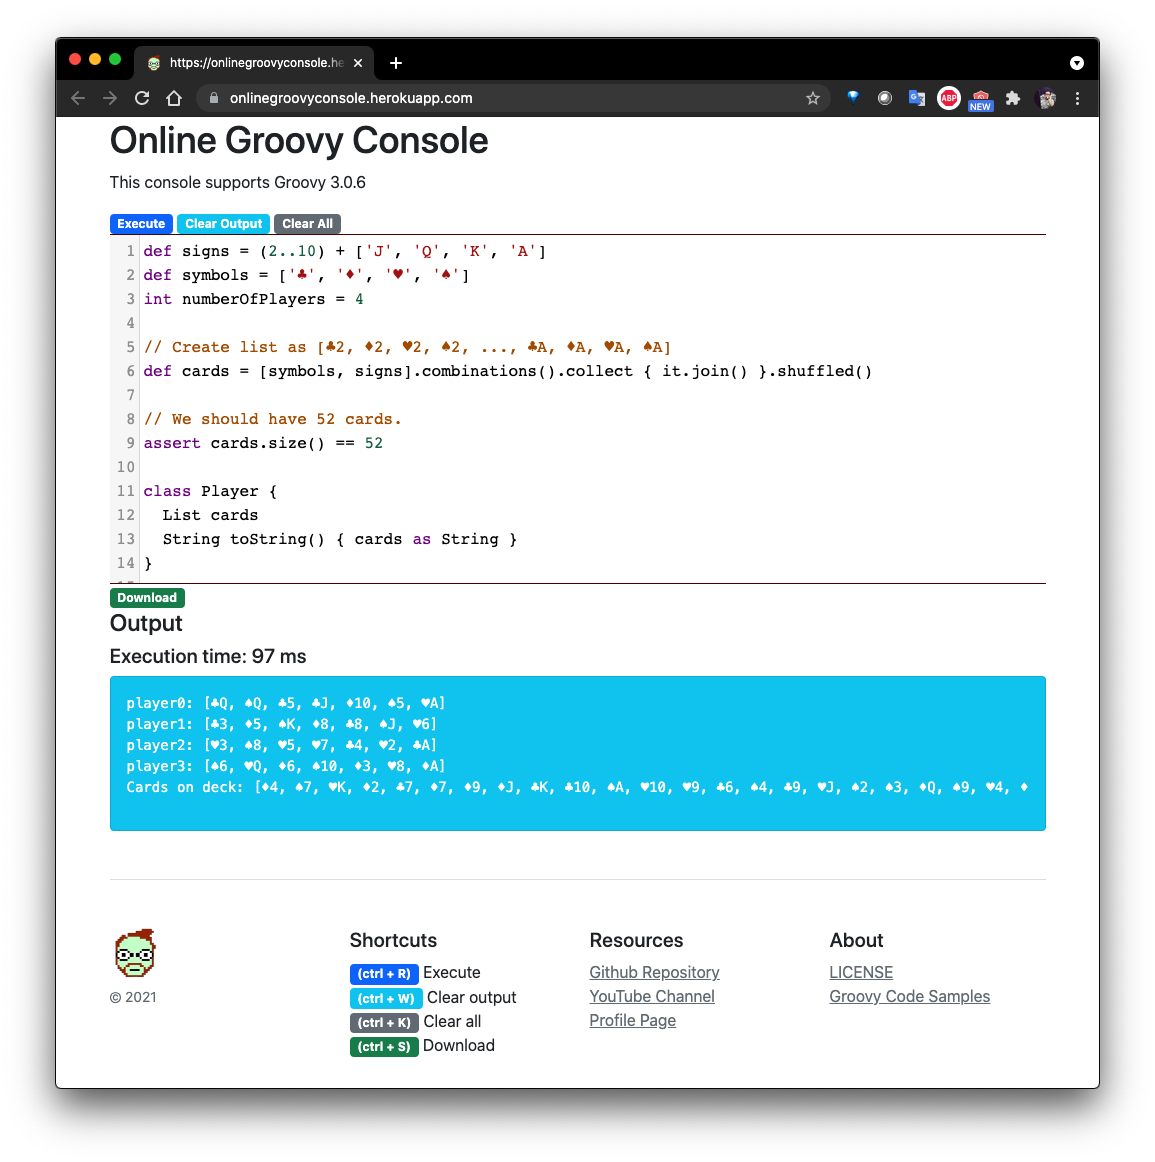
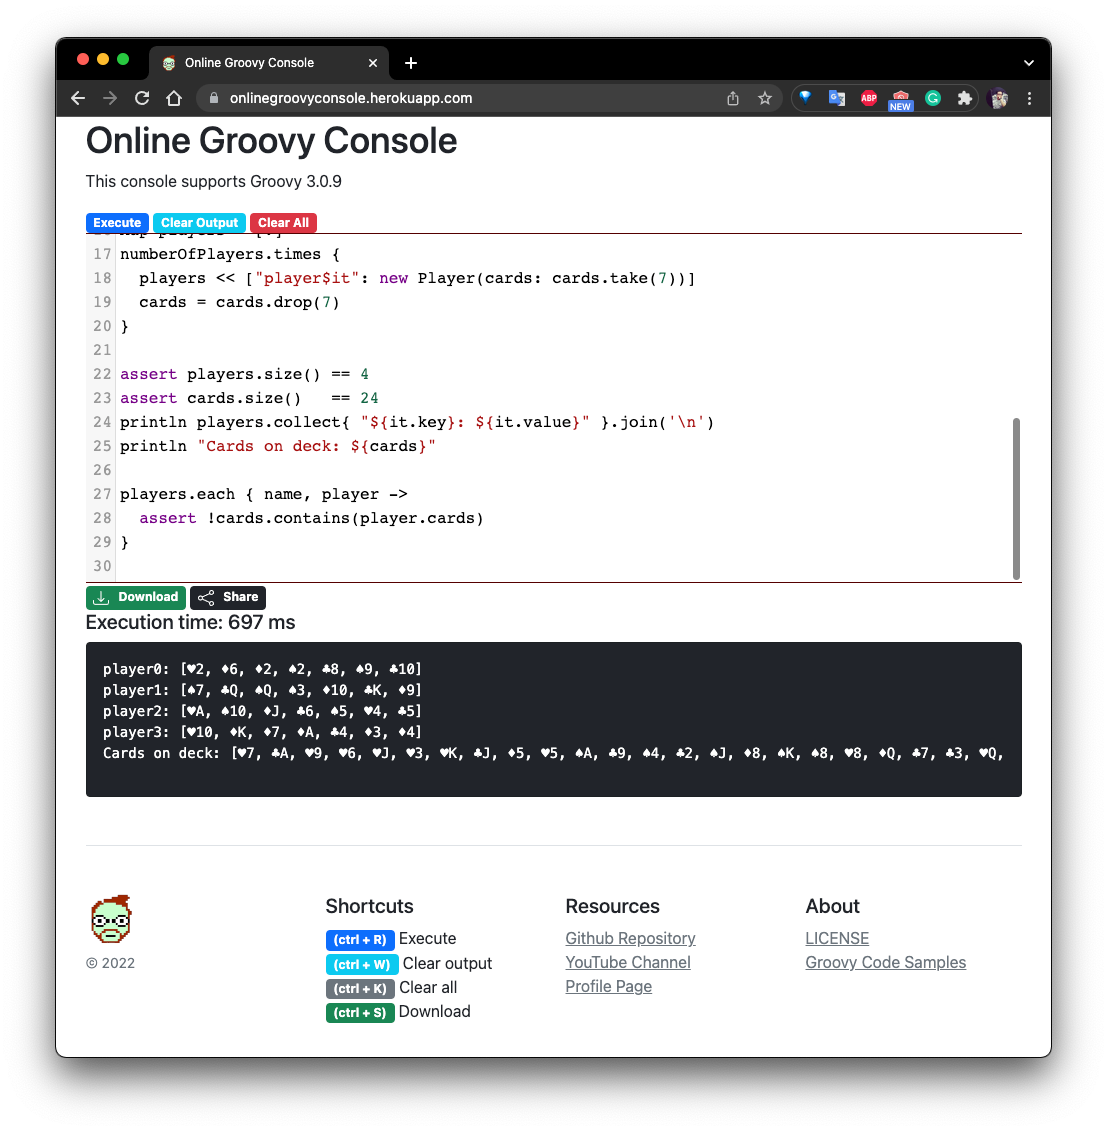
Update README with latest changes

diff --git a/README.md b/README.md
@@ -5,9 +5,9 @@ compatible with Groovy 3.0.6, this project is builtin with Micronaut.
 
 ## Technologies
 
-- Groovy 3.0.6
-- Micronaut 2.3.2  
-- Gradle 6.X
+- Groovy 3.0.9
+- Micronaut 3.3.0  
+- Gradle 7.3.3
 - Thymeleaf 2.2.1
 - Bootstrap 5
 
